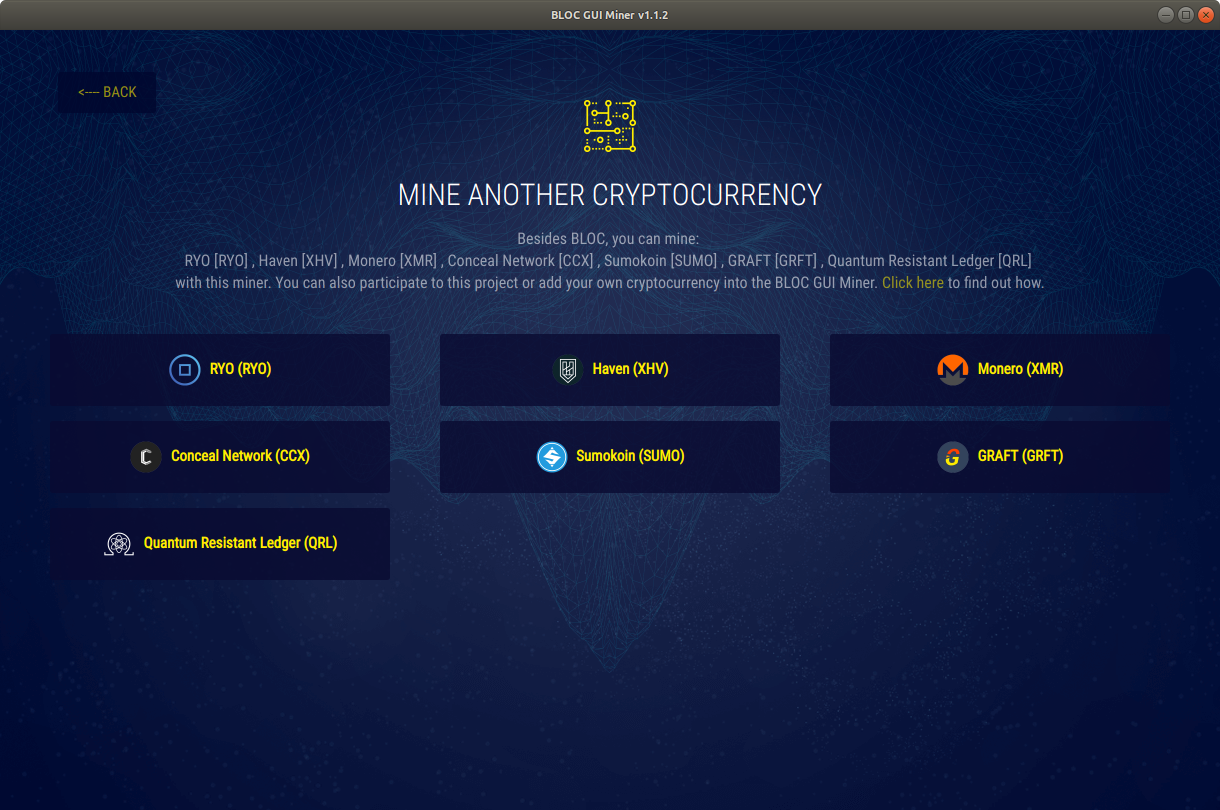
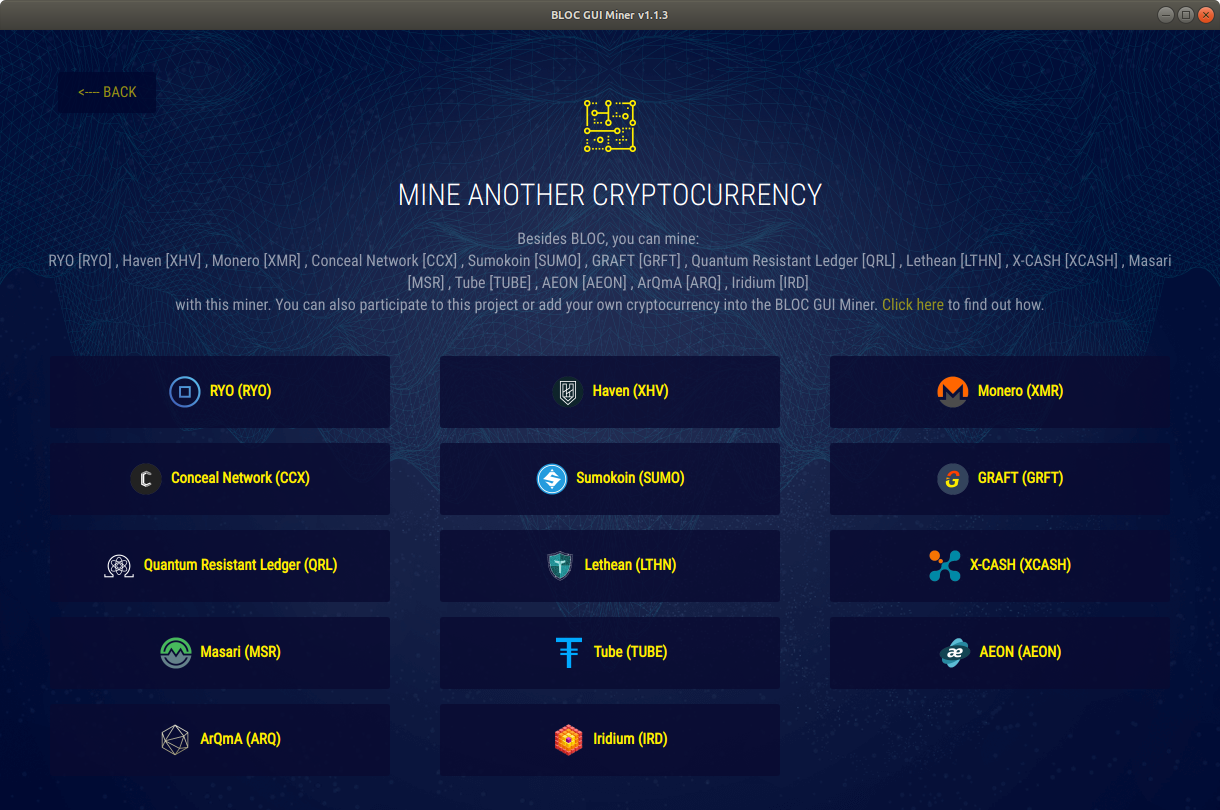
Updated more mining tutorials

diff --git a/docs/mining/BLOC-GUI-Miner.md b/docs/mining/BLOC-GUI-Miner.md
@@ -158,6 +158,63 @@ If you would like to contribute to this project by adding or editing a mining po
 
 [![BLOC GUI Miner Mining QRL](images/BLOC-GUI-MINER/13-MINING-QRL.png)](https://wiki.bloc.money/mining/bloc-gui-miner-mining-qrl/)
 
+### **Lethean (LTHN) Mining**
+
+[Lethean (LTHN)](https://lethean.io) allow users to quickly and seamlessly use VPN services by choosing an exit node that best suits their needs. Simply download the wallet, add Lethean, and visit the integrated VPN marketplace to begin using the VPN services.
+
+*Mining LTHN:* [How to mine Quantum Resistant Ledger (QRL)](../mining/BLOC-GUI-Miner-mining-lethean.md)
+
+![BLOC GUI Miner Mining Lethean (LTHN)](images/BLOC-GUI-MINER/SCREEN-LETHEAN.jpg)
+
+### **X-CASH (XCASH) Mining**
+
+[X-CASH](https://www.x-network.io/xcash/) **(XCASH)** is public blockchain network & innovative digital asset powering the X network allowing the creation of customizable blockchains secured by a worldwide network.
+
+*Mining XCASH:* [How to mine X-CASH (XCASH) ](../mining/BLOC-GUI-Miner-mining-xcash.md)
+
+![BLOC GUI Miner Mining X-CASH (XCASH))](images/BLOC-GUI-MINER/SCREEN-XCASH.jpg)
+
+### **TUBE (TUBE) Mining**
+
+[TUBE](https://bittubeapp.com) **(TUBE)** BitTube reshapes how web monetization should work. Browse privately, ad free and support every publisher you visit. Your time powers the new attention economy without compromise. AirTime rewards you and the publisher while browsing the web. Reward any website, social account and creator with your time and donations
+
+*Mining TUBE:* [How to mine TUBE (TUBE) ](../mining/BLOC-GUI-Miner-mining-tube.md)
+
+![BLOC GUI Miner Mining TUBE)](images/BLOC-GUI-MINER/SCREEN-TUBE.jpg)
+
+### **Masari (MSR) Mining**
+
+[MASARI](https://getmasari.org) **(MSR)** is a privacy-centric innovative cryptocurrency that allows users to send money around the globe with low fees very quickly. Masari is a fast, fungible, secure, private and soon-to-be scalable currency.
+
+*Mining Masari (MSR) :* [How to mine Masari (MSR)](../mining/BLOC-GUI-Miner-mining-masari.md)
+
+![BLOC GUI Miner Mining Masari (MSR))](images/BLOC-GUI-MINER/SCREEN-MASARI.jpg)
+
+### **Iridium (IRD) Mining**
+
+[IRIDIUM](https://ird.cash) **(IRD)** takes advantage of the technology behind CryptoNote by pulling together the best features that privacy coins can offer the world. 
+
+*Mining Iridium (IRD):* [How to mine Iridium (IRD)](../mining/BLOC-GUI-Miner-mining-iridium.md)
+
+![BLOC GUI Miner Mining Iridium (IRD))](images/BLOC-GUI-MINER/SCREEN-IRIDIUM.jpg)
+
+### **ArQmA (ARQ) Mining**
+
+[ARQMA](https://arqma.com) **(ARQ)** the heart of ArQ-Network, which was created by crypto enthusiasts to connect merchants big to small with seamless transactions and minimal fees to zero ! ArQmA creates a full and brilliant currency exchange platform which aims to provide more advanced features than any previously developed protocol.
+
+*Mining ArQmA (ARQ):* [How to mine ArQmA (ARQ)](../mining/BLOC-GUI-Miner-mining-arqma.md)
+
+![BLOC GUI Miner Mining ArQmA (ARQ))](images/BLOC-GUI-MINER/SCREEN-ARQMA.jpg)
+
+### **Aeon (AEON) Mining**
+
+[ARQMA](https://arqma.com) **(ARQ)** the heart of ArQ-Network, which was created by crypto enthusiasts to connect merchants big to small with seamless transactions and minimal fees to zero ! ArQmA creates a full and brilliant currency exchange platform which aims to provide more advanced features than any previously developed protocol.
+
+*Mining Aeon (AEON):* [How to mine Aeon (AEON)](../mining/BLOC-GUI-Miner-mining-aeon.md)
+
+![BLOC GUI Miner Mining Aeon (AEON))](images/BLOC-GUI-MINER/SCREEN-AEON.jpg)
+
+
 ## **Supported Miners**
 
 BLOC GUI Miner comes with **XMR-STAK** and **XMRIG** already built-in, including configuration files for CPU and GPU mining in most of the cases.

diff --git a/docs/mining/BLOC-GUI-Miner-mining-qrl.md b/docs/mining/BLOC-GUI-Miner-mining-qrl.md
@@ -6,7 +6,7 @@
 
 It is aimed at getting people that have never tried mining before with a focus on accessibility, security and simplicity.
 
-![BLOC GUI Miner Mining Quantum Resistant Ledger (QRL)](images/BLOC-GUI-MINER/BLOC-GUI-Miner-v1.1.2-mining-QRL.jpg)
+![BLOC GUI Miner Mining Quantum Resistant Ledger (QRL)](images/BLOC-GUI-MINER/SCREEN-QRL.jpg)
 
 ## **Install BLOC GUI Miner**
 

diff --git a/docs/mining/BLOC-GUI-Miner-mining-ccx.md b/docs/mining/BLOC-GUI-Miner-mining-ccx.md
@@ -8,7 +8,7 @@
 
 It is aimed at getting people that have never tried mining before with a focus on accessibility, security and simplicity.
 
-![BLOC GUI Miner Mining Conceal Network (CCX)](images/BLOC-GUI-MINER/BLOC-GUI-Miner-v1.1.2-mining-CCX.jpg)
+![BLOC GUI Miner Mining Conceal Network (CCX)](images/BLOC-GUI-MINER/SCREEN-CCX.jpg)
 
 ## **Install BLOC GUI Miner**
 

diff --git a/docs/mining/BLOC-GUI-Miner-mining-lethean.md b/docs/mining/BLOC-GUI-Miner-mining-lethean.md
@@ -6,7 +6,7 @@
 
 It is aimed at getting people that have never tried mining before with a focus on accessibility, security and simplicity.
 
-![BLOC GUI Miner Mining Lethean (LTHN)](images/BLOC-GUI-MINER/BLOC-GUI-Miner-v1.1.2-mining-XHV.jpg)
+![BLOC GUI Miner Mining Lethean (LTHN)](images/BLOC-GUI-MINER/SCREEN-LETHEAN.jpg)
 
 ## **Install BLOC GUI Miner**
 

diff --git a/docs/mining/BLOC-GUI-Miner-mining-sumo.md b/docs/mining/BLOC-GUI-Miner-mining-sumo.md
@@ -6,7 +6,7 @@
 
 It is aimed at getting people that have never tried mining before with a focus on accessibility, security and simplicity.
 
-![BLOC GUI Miner Mining Sumokoin (SUMO)](images/BLOC-GUI-MINER/BLOC-GUI-Miner-v1.1.2-mining-SUMO.jpg)
+![BLOC GUI Miner Mining Sumokoin (SUMO)](images/BLOC-GUI-MINER/SCREEN-SUMO.jpg)
 
 ## **Install BLOC GUI Miner**
 

diff --git a/docs/mining/BLOC-GUI-Miner-mining-iridium.md b/docs/mining/BLOC-GUI-Miner-mining-iridium.md
@@ -6,7 +6,7 @@
 
 It is aimed at getting people that have never tried mining before with a focus on accessibility, security and simplicity.
 
-![BLOC GUI Miner Mining Iridium (IRD)](images/BLOC-GUI-MINER/BLOC-GUI-Miner-v1.1.2-mining-XHV.jpg)
+![BLOC GUI Miner Mining Iridium (IRD)](images/BLOC-GUI-MINER/SCREEN-IRIDIUM.jpg)
 
 ## **Install BLOC GUI Miner**
 

diff --git a/docs/mining/BLOC-GUI-Miner-mining-xcash.md b/docs/mining/BLOC-GUI-Miner-mining-xcash.md
@@ -6,7 +6,7 @@
 
 It is aimed at getting people that have never tried mining before with a focus on accessibility, security and simplicity.
 
-![BLOC GUI Miner Mining X-CASH (XCASH)](images/BLOC-GUI-MINER/BLOC-GUI-Miner-v1.1.2-mining-XHV.jpg)
+![BLOC GUI Miner Mining X-CASH (XCASH)](images/BLOC-GUI-MINER/SCREEN-XCASH.jpg)
 
 ## **Install BLOC GUI Miner**
 

diff --git a/docs/mining/BLOC-GUI-Miner-mining-graft.md b/docs/mining/BLOC-GUI-Miner-mining-graft.md
@@ -6,7 +6,7 @@
 
 It is aimed at getting people that have never tried mining before with a focus on accessibility, security and simplicity.
 
-![BLOC GUI Miner Mining Graft (GRFT)](images/BLOC-GUI-MINER/BLOC-GUI-Miner-v1.1.2-mining-GRAFT.jpg)
+![BLOC GUI Miner Mining Graft (GRFT)](images/BLOC-GUI-MINER/SCREEN-GRAFT.jpg)
 
 ## **Install BLOC GUI Miner**
 

diff --git a/docs/mining/BLOC-GUI-Miner-mining-masari.md b/docs/mining/BLOC-GUI-Miner-mining-masari.md
@@ -6,7 +6,7 @@
 
 It is aimed at getting people that have never tried mining before with a focus on accessibility, security and simplicity.
 
-![BLOC GUI Miner Mining Masari (MSR)](images/BLOC-GUI-MINER/BLOC-GUI-Miner-v1.1.2-mining-XHV.jpg)
+![BLOC GUI Miner Mining Masari (MSR)](images/BLOC-GUI-MINER/SCREEN-MASARI.jpg)
 
 ## **Install BLOC GUI Miner**
 

diff --git a/docs/mining/BLOC-GUI-Miner-mining-arqma.md b/docs/mining/BLOC-GUI-Miner-mining-arqma.md
@@ -6,7 +6,7 @@
 
 It is aimed at getting people that have never tried mining before with a focus on accessibility, security and simplicity.
 
-![BLOC GUI Miner Mining ArQmA (ARQ)](images/BLOC-GUI-MINER/BLOC-GUI-Miner-v1.1.2-mining-XHV.jpg)
+![BLOC GUI Miner Mining ArQmA (ARQ)](images/BLOC-GUI-MINER/SCREEN-ARQMA.jpg)
 
 ## **Install BLOC GUI Miner**
 

diff --git a/docs/mining/BLOC-GUI-Miner-mining-haven.md b/docs/mining/BLOC-GUI-Miner-mining-haven.md
@@ -6,7 +6,7 @@
 
 It is aimed at getting people that have never tried mining before with a focus on accessibility, security and simplicity.
 
-![BLOC GUI Miner Mining Haven (XHV)](images/BLOC-GUI-MINER/BLOC-GUI-Miner-v1.1.2-mining-XHV.jpg)
+![BLOC GUI Miner Mining Haven (XHV)](images/BLOC-GUI-MINER/SCREEN-HAVEN.jpg)
 
 ## **Install BLOC GUI Miner**
 

diff --git a/docs/mining/BLOC-GUI-Miner-mining-loki.md b/docs/mining/BLOC-GUI-Miner-mining-loki.md
@@ -8,7 +8,7 @@
 
 It is aimed at getting people that have never tried mining before with a focus on accessibility, security and simplicity.
 
-![BLOC GUI Miner Mining Loki (LOKI)](images/BLOC-GUI-MINER/BLOC-GUI-Miner-v1.1.2-mining-LOKI.jpg)
+![BLOC GUI Miner Mining Loki (LOKI)](images/BLOC-GUI-MINER/SCREEN-LOKI.jpg)
 
 ## **Install BLOC GUI Miner**
 
